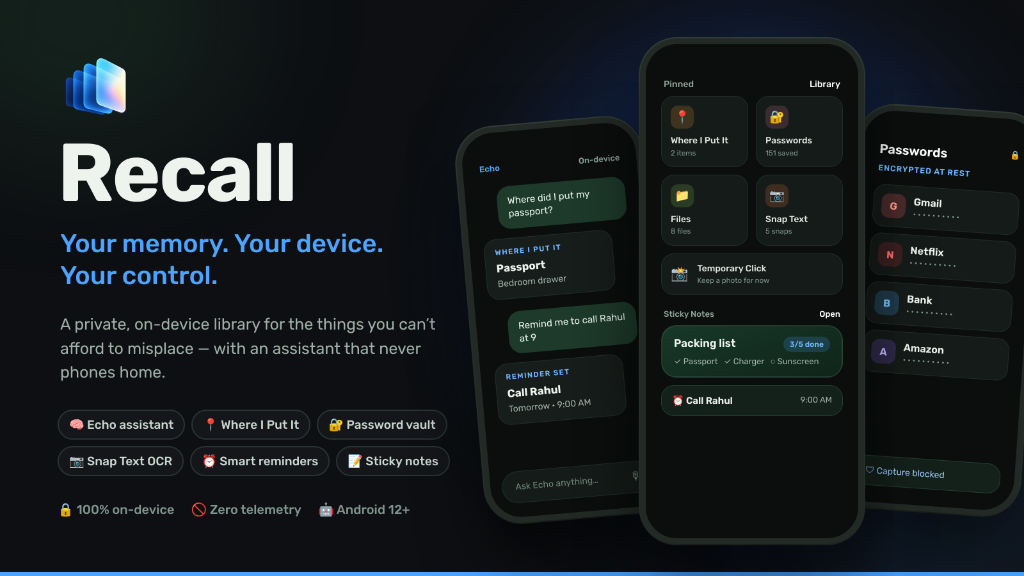
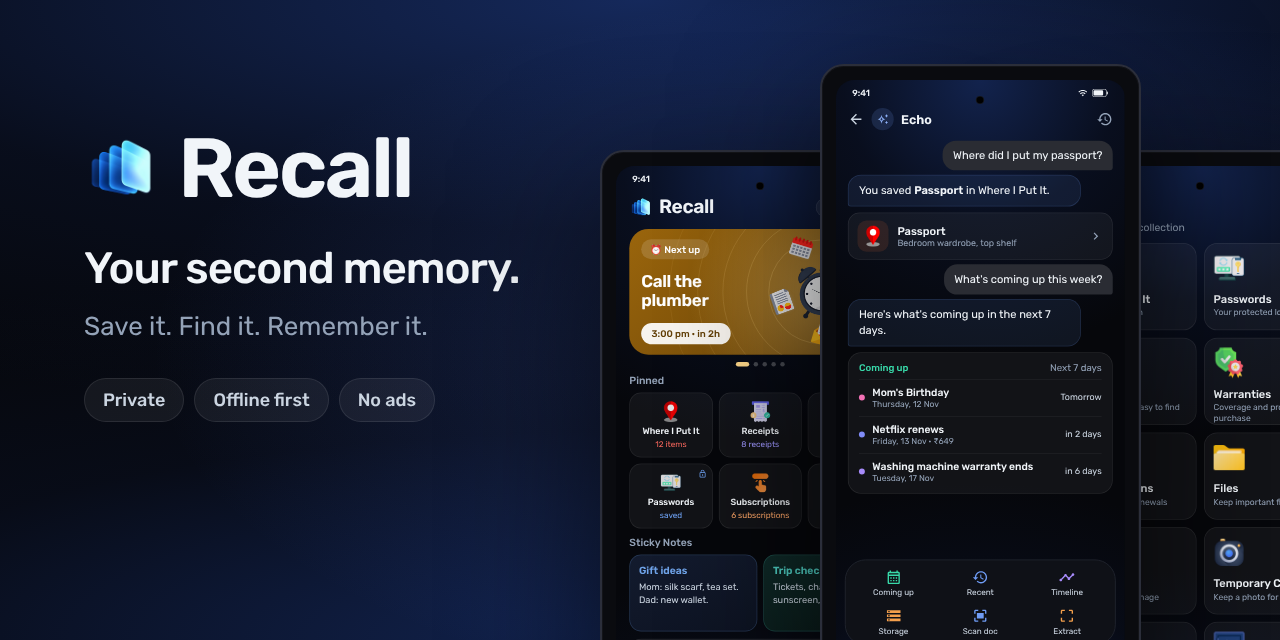
Add new v2.0 mockups showcase gallery and updated hero graphic

diff --git a/README.md b/README.md
@@ -22,6 +22,8 @@
   <p align="center">
     <a href="https://github.com/SeNsXD/Recall/releases/download/v2.0/Recall.2.0.apk"><strong>⚡ Download Latest APK (v2.0)</strong></a>
     &nbsp; &bull; &nbsp;
+    <a href="#-interface--feature-showcase"><strong>Showcase</strong></a>
+    &nbsp; &bull; &nbsp;
     <a href="#-top-10-features"><strong>Top 10 Features</strong></a>
     &nbsp; &bull; &nbsp;
     <a href="#-privacy-architecture-recall-vs-traditional-apps"><strong>Privacy Architecture</strong></a>
@@ -111,6 +113,47 @@ Everything you save in Recall lives exclusively inside your phone's encrypted sa
     </td>
   </tr>
 </table>
+
+<br />
+
+---
+
+## 📱 Interface &amp; Feature Showcase
+
+<div align="center">
+  <table>
+    <tr>
+      <td width="25%" valign="top">
+        <img src="docs/assets/mockups/01_home.png" alt="Home - Your day at a glance" />
+      </td>
+      <td width="25%" valign="top">
+        <img src="docs/assets/mockups/02_library.png" alt="Library - Everything in its place" />
+      </td>
+      <td width="25%" valign="top">
+        <img src="docs/assets/mockups/03_echo.png" alt="Echo - On-device AI Assistant" />
+      </td>
+      <td width="25%" valign="top">
+        <img src="docs/assets/mockups/04_life_feed.png" alt="Life Feed - Chronological Activity" />
+      </td>
+    </tr>
+    <tr>
+      <td width="25%" valign="top">
+        <img src="docs/assets/mockups/05_privacy.png" alt="Privacy - 100% On-Device" />
+      </td>
+      <td width="25%" valign="top">
+        <img src="docs/assets/mockups/06_call_reminders.png" alt="Call Reminders &amp; Exact Alarms" />
+      </td>
+      <td width="25%" valign="top">
+        <img src="docs/assets/mockups/07_snap_text.png" alt="Snap Text - Offline OCR" />
+      </td>
+      <td width="25%" valign="top">
+        <img src="docs/assets/mockups/08_where_i_put_it.png" alt="Where I Put It - Item Tracking" />
+      </td>
+    </tr>
+  </table>
+</div>
+
+<br />
 
 ---
 
